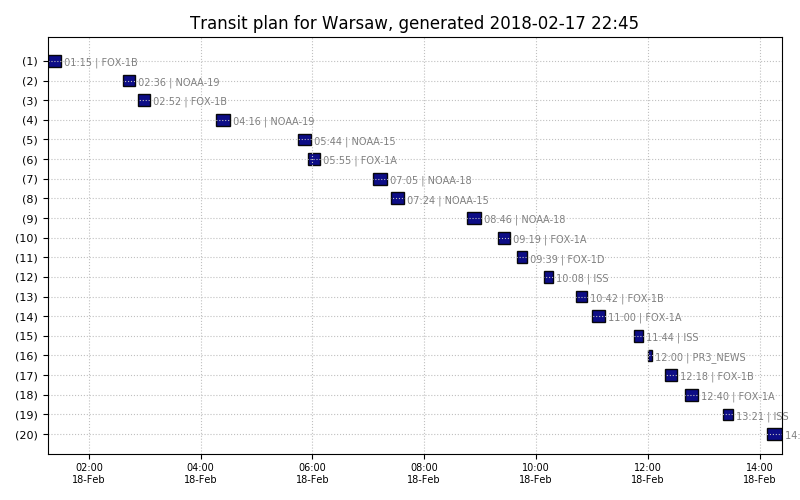
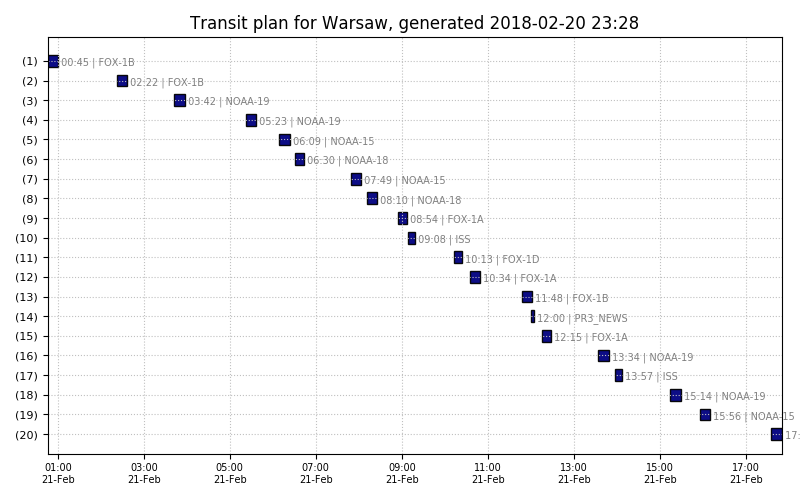
requirements fix

diff --git a/var/nextpass.html b/var/nextpass.html
@@ -1,103 +1,103 @@
 <table>
 <tr><td>#</td><td>satellite</td><td>start</td><td>duration</td><td>peak</td><td>azimuth</td><td>freq</td><td>process with</td><tr>
-<tr><td>1</td><td>FOX-1B</td><td>2018-02-18 01:15</td><td>14:44</td><td>87°</td><td>104° (E→)</td><td>145960000Hz</td><td>modules/iss/iss_voice.sh</td><tr>
-<tr><td>2</td><td>NOAA-19</td><td>2018-02-18 02:36</td><td>13:42</td><td>22°</td><td>90° (E→)</td><td>137100000Hz</td><td>modules/noaa/noaa.sh</td><tr>
-<tr><td>3</td><td>FOX-1B</td><td>2018-02-18 02:52</td><td>12:50</td><td>21°</td><td>304° (WNW←↖)</td><td>145960000Hz</td><td>modules/iss/iss_voice.sh</td><tr>
-<tr><td>4</td><td>NOAA-19</td><td>2018-02-18 04:16</td><td>15:10</td><td>73°</td><td>290° (W←)</td><td>137100000Hz</td><td>modules/noaa/noaa.sh</td><tr>
-<tr><td>5</td><td>NOAA-15</td><td>2018-02-18 05:44</td><td>13:55</td><td>32°</td><td>94° (E→)</td><td>137620000Hz</td><td>modules/noaa/noaa.sh</td><tr>
-<tr><td>6</td><td>FOX-1A</td><td>2018-02-18 05:55</td><td>12:37</td><td>39°</td><td>325° (NW↖)</td><td>145980000Hz</td><td>modules/iss/iss_voice.sh</td><tr>
-<tr><td>7</td><td>NOAA-18</td><td>2018-02-18 07:05</td><td>14:45</td><td>41°</td><td>98° (E→)</td><td>137912500Hz</td><td>modules/noaa/noaa.sh</td><tr>
-<tr><td>8</td><td>NOAA-15</td><td>2018-02-18 07:24</td><td>14:07</td><td>46°</td><td>294° (WNW←↖)</td><td>137620000Hz</td><td>modules/noaa/noaa.sh</td><tr>
-<tr><td>9</td><td>NOAA-18</td><td>2018-02-18 08:46</td><td>14:21</td><td>39°</td><td>298° (WNW←↖)</td><td>137912500Hz</td><td>modules/noaa/noaa.sh</td><tr>
-<tr><td>10</td><td>FOX-1A</td><td>2018-02-18 09:19</td><td>12:24</td><td>20°</td><td>14° (N↑)</td><td>145980000Hz</td><td>modules/iss/iss_voice.sh</td><tr>
-<tr><td>11</td><td>FOX-1D</td><td>2018-02-18 09:39</td><td>10:48</td><td>83°</td><td>103° (E→)</td><td>145880000Hz</td><td>modules/iss/iss_voice.sh</td><tr>
-<tr><td>12</td><td>ISS</td><td>2018-02-18 10:08</td><td>09:39</td><td>32°</td><td>153° (SE↘)</td><td>145800000Hz</td><td>modules/iss/iss_voice.sh</td><tr>
-<tr><td>13</td><td>FOX-1B</td><td>2018-02-18 10:42</td><td>12:18</td><td>24°</td><td>57° (NE↗)</td><td>145960000Hz</td><td>modules/iss/iss_voice.sh</td><tr>
-<tr><td>14</td><td>FOX-1A</td><td>2018-02-18 11:00</td><td>13:53</td><td>46°</td><td>37° (NNE↑↗)</td><td>145980000Hz</td><td>modules/iss/iss_voice.sh</td><tr>
-<tr><td>15</td><td>ISS</td><td>2018-02-18 11:44</td><td>10:02</td><td>75°</td><td>172° (SSE↓↘)</td><td>145800000Hz</td><td>modules/iss/iss_voice.sh</td><tr>
-<tr><td>16</td><td>PR3_NEWS</td><td>2018-02-18 12:00</td><td>05:00</td><td>0°</td><td>0° (N↑)</td><td>98796500Hz</td><td>modules/fm/fm.sh</td><tr>
-<tr><td>17</td><td>FOX-1B</td><td>2018-02-18 12:18</td><td>13:31</td><td>62°</td><td>259° (WSW←↙)</td><td>145960000Hz</td><td>modules/iss/iss_voice.sh</td><tr>
-<tr><td>18</td><td>FOX-1A</td><td>2018-02-18 12:40</td><td>13:55</td><td>44°</td><td>236° (SW↙)</td><td>145980000Hz</td><td>modules/iss/iss_voice.sh</td><tr>
-<tr><td>19</td><td>ISS</td><td>2018-02-18 13:21</td><td>10:00</td><td>65°</td><td>192° (S↓)</td><td>145800000Hz</td><td>modules/iss/iss_voice.sh</td><tr>
-<tr><td>20</td><td>NOAA-19</td><td>2018-02-18 14:08</td><td>15:03</td><td>67°</td><td>68° (ENE→↗)</td><td>137100000Hz</td><td>modules/noaa/noaa.sh</td><tr>
-<tr><td>21</td><td>ISS</td><td>2018-02-18 14:57</td><td>09:17</td><td>23°</td><td>211° (SSW↓↙)</td><td>145800000Hz</td><td>modules/iss/iss_voice.sh</td><tr>
-<tr><td>22</td><td>NOAA-19</td><td>2018-02-18 15:50</td><td>13:50</td><td>24°</td><td>268° (WSW←↙)</td><td>137100000Hz</td><td>modules/noaa/noaa.sh</td><tr>
-<tr><td>23</td><td>NOAA-18</td><td>2018-02-18 16:58</td><td>13:41</td><td>27°</td><td>56° (NE↗)</td><td>137912500Hz</td><td>modules/noaa/noaa.sh</td><tr>
-<tr><td>24</td><td>NOAA-15</td><td>2018-02-18 17:10</td><td>14:44</td><td>87°</td><td>72° (ENE→↗)</td><td>137620000Hz</td><td>modules/noaa/noaa.sh</td><tr>
-<tr><td>25</td><td>NOAA-18</td><td>2018-02-18 18:37</td><td>14:59</td><td>64°</td><td>256° (WSW←↙)</td><td>137912500Hz</td><td>modules/noaa/noaa.sh</td><tr>
-<tr><td>26</td><td>FOX-1D</td><td>2018-02-18 20:22</td><td>10:51</td><td>86°</td><td>75° (ENE→↗)</td><td>145880000Hz</td><td>modules/iss/iss_voice.sh</td><tr>
-<tr><td>27</td><td>FOX-1B</td><td>2018-02-19 00:01</td><td>13:39</td><td>24°</td><td>89° (ENE→↗)</td><td>145960000Hz</td><td>modules/iss/iss_voice.sh</td><tr>
-<tr><td>28</td><td>FOX-1B</td><td>2018-02-19 01:37</td><td>14:36</td><td>64°</td><td>289° (W←)</td><td>145960000Hz</td><td>modules/iss/iss_voice.sh</td><tr>
-<tr><td>29</td><td>NOAA-19</td><td>2018-02-19 04:05</td><td>15:14</td><td>87°</td><td>288° (W←)</td><td>137100000Hz</td><td>modules/noaa/noaa.sh</td><tr>
-<tr><td>30</td><td>FOX-1A</td><td>2018-02-19 04:40</td><td>12:34</td><td>88°</td><td>131° (ESE→↘)</td><td>145980000Hz</td><td>modules/iss/iss_voice.sh</td><tr>
-<tr><td>31</td><td>NOAA-15</td><td>2018-02-19 05:19</td><td>13:06</td><td>21°</td><td>89° (ENE→↗)</td><td>137620000Hz</td><td>modules/noaa/noaa.sh</td><tr>
-<tr><td>32</td><td>NOAA-19</td><td>2018-02-19 05:46</td><td>13:07</td><td>20°</td><td>308° (WNW←↖)</td><td>137100000Hz</td><td>modules/noaa/noaa.sh</td><tr>
-<tr><td>33</td><td>FOX-1A</td><td>2018-02-19 06:21</td><td>12:13</td><td>26°</td><td>335° (NW↖)</td><td>145980000Hz</td><td>modules/iss/iss_voice.sh</td><tr>
-<tr><td>34</td><td>NOAA-18</td><td>2018-02-19 06:53</td><td>14:23</td><td>34°</td><td>95° (E→)</td><td>137912500Hz</td><td>modules/noaa/noaa.sh</td><tr>
-<tr><td>35</td><td>NOAA-15</td><td>2018-02-19 06:59</td><td>14:31</td><td>70°</td><td>289° (W←)</td><td>137620000Hz</td><td>modules/noaa/noaa.sh</td><tr>
-<tr><td>36</td><td>NOAA-18</td><td>2018-02-19 08:34</td><td>14:35</td><td>46°</td><td>295° (WNW←↖)</td><td>137912500Hz</td><td>modules/noaa/noaa.sh</td><tr>
-<tr><td>37</td><td>FOX-1D</td><td>2018-02-19 09:19</td><td>10:39</td><td>48°</td><td>99° (E→)</td><td>145880000Hz</td><td>modules/iss/iss_voice.sh</td><tr>
-<tr><td>38</td><td>FOX-1A</td><td>2018-02-19 09:44</td><td>13:02</td><td>26°</td><td>24° (NNE↑↗)</td><td>145980000Hz</td><td>modules/iss/iss_voice.sh</td><tr>
-<tr><td>39</td><td>ISS</td><td>2018-02-19 10:52</td><td>09:59</td><td>64°</td><td>166° (SSE↓↘)</td><td>145800000Hz</td><td>modules/iss/iss_voice.sh</td><tr>
-<tr><td>40</td><td>FOX-1B</td><td>2018-02-19 11:04</td><td>12:59</td><td>34°</td><td>62° (NE↗)</td><td>145960000Hz</td><td>modules/iss/iss_voice.sh</td><tr>
-<tr><td>41</td><td>FOX-1A</td><td>2018-02-19 11:25</td><td>14:13</td><td>77°</td><td>45° (NE↗)</td><td>145980000Hz</td><td>modules/iss/iss_voice.sh</td><tr>
-<tr><td>42</td><td>PR3_NEWS</td><td>2018-02-19 12:00</td><td>05:00</td><td>0°</td><td>0° (N↑)</td><td>98796500Hz</td><td>modules/fm/fm.sh</td><tr>
-<tr><td>43</td><td>ISS</td><td>2018-02-19 12:29</td><td>10:02</td><td>76°</td><td>186° (S↓)</td><td>145800000Hz</td><td>modules/iss/iss_voice.sh</td><tr>
-<tr><td>44</td><td>FOX-1B</td><td>2018-02-19 12:40</td><td>13:15</td><td>40°</td><td>264° (WSW←↙)</td><td>145960000Hz</td><td>modules/iss/iss_voice.sh</td><tr>
-<tr><td>45</td><td>FOX-1A</td><td>2018-02-19 13:05</td><td>12:59</td><td>24°</td><td>244° (SW↙)</td><td>145980000Hz</td><td>modules/iss/iss_voice.sh</td><tr>
-<tr><td>46</td><td>NOAA-19</td><td>2018-02-19 13:57</td><td>14:55</td><td>55°</td><td>66° (NE↗)</td><td>137100000Hz</td><td>modules/noaa/noaa.sh</td><tr>
-<tr><td>47</td><td>NOAA-19</td><td>2018-02-19 15:38</td><td>14:15</td><td>29°</td><td>266° (WSW←↙)</td><td>137100000Hz</td><td>modules/noaa/noaa.sh</td><tr>
-<tr><td>48</td><td>NOAA-15</td><td>2018-02-19 16:45</td><td>14:28</td><td>58°</td><td>67° (NE↗)</td><td>137620000Hz</td><td>modules/noaa/noaa.sh</td><tr>
-<tr><td>49</td><td>NOAA-18</td><td>2018-02-19 16:46</td><td>13:18</td><td>23°</td><td>54° (NE↗)</td><td>137912500Hz</td><td>modules/noaa/noaa.sh</td><tr>
-<tr><td>50</td><td>NOAA-18</td><td>2018-02-19 18:26</td><td>15:02</td><td>78°</td><td>254° (WSW←↙)</td><td>137912500Hz</td><td>modules/noaa/noaa.sh</td><tr>
-<tr><td>51</td><td>NOAA-15</td><td>2018-02-19 18:26</td><td>13:37</td><td>26°</td><td>267° (WSW←↙)</td><td>137620000Hz</td><td>modules/noaa/noaa.sh</td><tr>
-<tr><td>52</td><td>FOX-1D</td><td>2018-02-19 20:02</td><td>10:42</td><td>51°</td><td>71° (ENE→↗)</td><td>145880000Hz</td><td>modules/iss/iss_voice.sh</td><tr>
-<tr><td>53</td><td>FOX-1B</td><td>2018-02-20 00:23</td><td>14:09</td><td>36°</td><td>94° (E→)</td><td>145960000Hz</td><td>modules/iss/iss_voice.sh</td><tr>
-<tr><td>54</td><td>FOX-1B</td><td>2018-02-20 02:00</td><td>14:16</td><td>44°</td><td>293° (WNW←↖)</td><td>145960000Hz</td><td>modules/iss/iss_voice.sh</td><tr>
-<tr><td>55</td><td>FOX-1A</td><td>2018-02-20 03:25</td><td>11:44</td><td>30°</td><td>118° (ESE→↘)</td><td>145980000Hz</td><td>modules/iss/iss_voice.sh</td><tr>
-<tr><td>56</td><td>NOAA-19</td><td>2018-02-20 03:53</td><td>15:14</td><td>77°</td><td>105° (E→)</td><td>137100000Hz</td><td>modules/noaa/noaa.sh</td><tr>
-<tr><td>57</td><td>FOX-1A</td><td>2018-02-20 05:05</td><td>12:36</td><td>49°</td><td>321° (NW↖)</td><td>145980000Hz</td><td>modules/iss/iss_voice.sh</td><tr>
-<tr><td>58</td><td>NOAA-19</td><td>2018-02-20 05:34</td><td>13:33</td><td>23°</td><td>305° (WNW←↖)</td><td>137100000Hz</td><td>modules/noaa/noaa.sh</td><tr>
-<tr><td>59</td><td>NOAA-15</td><td>2018-02-20 06:34</td><td>14:35</td><td>77°</td><td>104° (E→)</td><td>137620000Hz</td><td>modules/noaa/noaa.sh</td><tr>
-<tr><td>60</td><td>NOAA-18</td><td>2018-02-20 06:42</td><td>14:03</td><td>28°</td><td>93° (E→)</td><td>137912500Hz</td><td>modules/noaa/noaa.sh</td><tr>
-<tr><td>61</td><td>NOAA-15</td><td>2018-02-20 08:14</td><td>12:53</td><td>22°</td><td>305° (WNW←↖)</td><td>137620000Hz</td><td>modules/noaa/noaa.sh</td><tr>
-<tr><td>62</td><td>NOAA-18</td><td>2018-02-20 08:22</td><td>14:47</td><td>56°</td><td>293° (WNW←↖)</td><td>137912500Hz</td><td>modules/noaa/noaa.sh</td><tr>
-<tr><td>63</td><td>FOX-1D</td><td>2018-02-20 08:59</td><td>10:19</td><td>29°</td><td>95° (E→)</td><td>145880000Hz</td><td>modules/iss/iss_voice.sh</td><tr>
-<tr><td>64</td><td>ISS</td><td>2018-02-20 10:00</td><td>09:54</td><td>50°</td><td>161° (SSE↓↘)</td><td>145800000Hz</td><td>modules/iss/iss_voice.sh</td><tr>
-<tr><td>65</td><td>FOX-1A</td><td>2018-02-20 10:09</td><td>13:38</td><td>38°</td><td>33° (NNE↑↗)</td><td>145980000Hz</td><td>modules/iss/iss_voice.sh</td><tr>
-<tr><td>66</td><td>FOX-1D</td><td>2018-02-20 10:33</td><td>10:05</td><td>27°</td><td>294° (WNW←↖)</td><td>145880000Hz</td><td>modules/iss/iss_voice.sh</td><tr>
-<tr><td>67</td><td>FOX-1B</td><td>2018-02-20 11:26</td><td>13:29</td><td>50°</td><td>67° (NE↗)</td><td>145960000Hz</td><td>modules/iss/iss_voice.sh</td><tr>
-<tr><td>68</td><td>ISS</td><td>2018-02-20 11:36</td><td>10:07</td><td>80°</td><td>180° (S↓)</td><td>145800000Hz</td><td>modules/iss/iss_voice.sh</td><tr>
-<tr><td>69</td><td>FOX-1A</td><td>2018-02-20 11:50</td><td>14:09</td><td>59°</td><td>233° (SW↙)</td><td>145980000Hz</td><td>modules/iss/iss_voice.sh</td><tr>
-<tr><td>70</td><td>FOX-1B</td><td>2018-02-20 13:03</td><td>12:43</td><td>27°</td><td>269° (WSW←↙)</td><td>145960000Hz</td><td>modules/iss/iss_voice.sh</td><tr>
-<tr><td>71</td><td>ISS</td><td>2018-02-20 13:13</td><td>09:52</td><td>45°</td><td>200° (S↓)</td><td>145800000Hz</td><td>modules/iss/iss_voice.sh</td><tr>
-<tr><td>72</td><td>NOAA-19</td><td>2018-02-20 13:45</td><td>14:44</td><td>46°</td><td>64° (NE↗)</td><td>137100000Hz</td><td>modules/noaa/noaa.sh</td><tr>
-<tr><td>73</td><td>NOAA-19</td><td>2018-02-20 15:26</td><td>14:34</td><td>35°</td><td>264° (WSW←↙)</td><td>137100000Hz</td><td>modules/noaa/noaa.sh</td><tr>
-<tr><td>74</td><td>NOAA-15</td><td>2018-02-20 16:20</td><td>14:02</td><td>39°</td><td>62° (NE↗)</td><td>137620000Hz</td><td>modules/noaa/noaa.sh</td><tr>
-<tr><td>75</td><td>NOAA-15</td><td>2018-02-20 18:00</td><td>14:16</td><td>40°</td><td>262° (WSW←↙)</td><td>137620000Hz</td><td>modules/noaa/noaa.sh</td><tr>
-<tr><td>76</td><td>NOAA-18</td><td>2018-02-20 18:14</td><td>15:01</td><td>86°</td><td>72° (ENE→↗)</td><td>137912500Hz</td><td>modules/noaa/noaa.sh</td><tr>
-<tr><td>77</td><td>FOX-1D</td><td>2018-02-20 19:43</td><td>10:26</td><td>32°</td><td>67° (NE↗)</td><td>145880000Hz</td><td>modules/iss/iss_voice.sh</td><tr>
-<tr><td>78</td><td>FOX-1D</td><td>2018-02-20 21:16</td><td>10:12</td><td>25°</td><td>265° (WSW←↙)</td><td>145880000Hz</td><td>modules/iss/iss_voice.sh</td><tr>
-<tr><td>79</td><td>FOX-1B</td><td>2018-02-21 00:45</td><td>14:30</td><td>53°</td><td>98° (E→)</td><td>145960000Hz</td><td>modules/iss/iss_voice.sh</td><tr>
-<tr><td>80</td><td>FOX-1B</td><td>2018-02-21 02:22</td><td>13:44</td><td>31°</td><td>298° (WNW←↖)</td><td>145960000Hz</td><td>modules/iss/iss_voice.sh</td><tr>
-<tr><td>81</td><td>NOAA-19</td><td>2018-02-21 03:42</td><td>15:11</td><td>64°</td><td>103° (E→)</td><td>137100000Hz</td><td>modules/noaa/noaa.sh</td><tr>
-<tr><td>82</td><td>NOAA-19</td><td>2018-02-21 05:23</td><td>13:59</td><td>27°</td><td>303° (WNW←↖)</td><td>137100000Hz</td><td>modules/noaa/noaa.sh</td><tr>
-<tr><td>83</td><td>NOAA-15</td><td>2018-02-21 06:09</td><td>14:24</td><td>49°</td><td>99° (E→)</td><td>137620000Hz</td><td>modules/noaa/noaa.sh</td><tr>
-<tr><td>84</td><td>NOAA-18</td><td>2018-02-21 06:30</td><td>13:39</td><td>23°</td><td>91° (E→)</td><td>137912500Hz</td><td>modules/noaa/noaa.sh</td><tr>
-<tr><td>85</td><td>NOAA-15</td><td>2018-02-21 07:49</td><td>13:38</td><td>31°</td><td>299° (WNW←↖)</td><td>137620000Hz</td><td>modules/noaa/noaa.sh</td><tr>
-<tr><td>86</td><td>NOAA-18</td><td>2018-02-21 08:10</td><td>14:55</td><td>68°</td><td>291° (W←)</td><td>137912500Hz</td><td>modules/noaa/noaa.sh</td><tr>
-<tr><td>87</td><td>FOX-1A</td><td>2018-02-21 08:54</td><td>12:46</td><td>23°</td><td>20° (N↑)</td><td>145980000Hz</td><td>modules/iss/iss_voice.sh</td><tr>
-<tr><td>88</td><td>ISS</td><td>2018-02-21 09:08</td><td>09:44</td><td>36°</td><td>155° (SE↘)</td><td>145800000Hz</td><td>modules/iss/iss_voice.sh</td><tr>
-<tr><td>89</td><td>FOX-1D</td><td>2018-02-21 10:13</td><td>10:30</td><td>42°</td><td>290° (W←)</td><td>145880000Hz</td><td>modules/iss/iss_voice.sh</td><tr>
-<tr><td>90</td><td>FOX-1A</td><td>2018-02-21 10:34</td><td>14:08</td><td>61°</td><td>41° (NNE↑↗)</td><td>145980000Hz</td><td>modules/iss/iss_voice.sh</td><tr>
-<tr><td>91</td><td>FOX-1B</td><td>2018-02-21 11:48</td><td>13:47</td><td>76°</td><td>72° (ENE→↗)</td><td>145960000Hz</td><td>modules/iss/iss_voice.sh</td><tr>
-<tr><td>92</td><td>PR3_NEWS</td><td>2018-02-21 12:00</td><td>05:00</td><td>0°</td><td>0° (N↑)</td><td>98796500Hz</td><td>modules/fm/fm.sh</td><tr>
-<tr><td>93</td><td>FOX-1A</td><td>2018-02-21 12:15</td><td>13:30</td><td>31°</td><td>240° (SW↙)</td><td>145980000Hz</td><td>modules/iss/iss_voice.sh</td><tr>
-<tr><td>94</td><td>NOAA-19</td><td>2018-02-21 13:34</td><td>14:31</td><td>39°</td><td>61° (NE↗)</td><td>137100000Hz</td><td>modules/noaa/noaa.sh</td><tr>
-<tr><td>95</td><td>ISS</td><td>2018-02-21 13:57</td><td>09:06</td><td>20°</td><td>213° (SSW↓↙)</td><td>145800000Hz</td><td>modules/iss/iss_voice.sh</td><tr>
-<tr><td>96</td><td>NOAA-19</td><td>2018-02-21 15:14</td><td>14:47</td><td>42°</td><td>261° (WSW←↙)</td><td>137100000Hz</td><td>modules/noaa/noaa.sh</td><tr>
-<tr><td>97</td><td>NOAA-15</td><td>2018-02-21 15:56</td><td>13:24</td><td>27°</td><td>57° (NE↗)</td><td>137620000Hz</td><td>modules/noaa/noaa.sh</td><tr>
-<tr><td>98</td><td>NOAA-15</td><td>2018-02-21 17:35</td><td>14:29</td><td>61°</td><td>257° (WSW←↙)</td><td>137620000Hz</td><td>modules/noaa/noaa.sh</td><tr>
-<tr><td>99</td><td>NOAA-18</td><td>2018-02-21 18:02</td><td>14:55</td><td>72°</td><td>69° (ENE→↗)</td><td>137912500Hz</td><td>modules/noaa/noaa.sh</td><tr>
-<tr><td>100</td><td>FOX-1D</td><td>2018-02-21 19:23</td><td>09:48</td><td>21°</td><td>62° (NE↗)</td><td>145880000Hz</td><td>modules/iss/iss_voice.sh</td><tr>
+<tr><td>1</td><td>FOX-1B</td><td>2018-02-21 00:45</td><td>14:30</td><td>53°</td><td>98° (E→)</td><td>145960000Hz</td><td>modules/iss/iss_voice.sh</td><tr>
+<tr><td>2</td><td>FOX-1B</td><td>2018-02-21 02:22</td><td>13:44</td><td>31°</td><td>298° (WNW←↖)</td><td>145960000Hz</td><td>modules/iss/iss_voice.sh</td><tr>
+<tr><td>3</td><td>NOAA-19</td><td>2018-02-21 03:42</td><td>15:11</td><td>64°</td><td>103° (E→)</td><td>137100000Hz</td><td>modules/noaa/noaa.sh</td><tr>
+<tr><td>4</td><td>NOAA-19</td><td>2018-02-21 05:23</td><td>13:59</td><td>27°</td><td>303° (WNW←↖)</td><td>137100000Hz</td><td>modules/noaa/noaa.sh</td><tr>
+<tr><td>5</td><td>NOAA-15</td><td>2018-02-21 06:09</td><td>14:24</td><td>49°</td><td>99° (E→)</td><td>137620000Hz</td><td>modules/noaa/noaa.sh</td><tr>
+<tr><td>6</td><td>NOAA-18</td><td>2018-02-21 06:30</td><td>13:39</td><td>23°</td><td>91° (E→)</td><td>137912500Hz</td><td>modules/noaa/noaa.sh</td><tr>
+<tr><td>7</td><td>NOAA-15</td><td>2018-02-21 07:49</td><td>13:38</td><td>31°</td><td>299° (WNW←↖)</td><td>137620000Hz</td><td>modules/noaa/noaa.sh</td><tr>
+<tr><td>8</td><td>NOAA-18</td><td>2018-02-21 08:10</td><td>14:55</td><td>68°</td><td>290° (W←)</td><td>137912500Hz</td><td>modules/noaa/noaa.sh</td><tr>
+<tr><td>9</td><td>FOX-1A</td><td>2018-02-21 08:54</td><td>12:46</td><td>23°</td><td>20° (N↑)</td><td>145980000Hz</td><td>modules/iss/iss_voice.sh</td><tr>
+<tr><td>10</td><td>ISS</td><td>2018-02-21 09:08</td><td>09:44</td><td>36°</td><td>155° (SE↘)</td><td>145800000Hz</td><td>modules/iss/iss_voice.sh</td><tr>
+<tr><td>11</td><td>FOX-1D</td><td>2018-02-21 10:13</td><td>10:30</td><td>42°</td><td>290° (W←)</td><td>145880000Hz</td><td>modules/iss/iss_voice.sh</td><tr>
+<tr><td>12</td><td>FOX-1A</td><td>2018-02-21 10:34</td><td>14:08</td><td>61°</td><td>41° (NNE↑↗)</td><td>145980000Hz</td><td>modules/iss/iss_voice.sh</td><tr>
+<tr><td>13</td><td>FOX-1B</td><td>2018-02-21 11:48</td><td>13:47</td><td>76°</td><td>72° (ENE→↗)</td><td>145960000Hz</td><td>modules/iss/iss_voice.sh</td><tr>
+<tr><td>14</td><td>PR3_NEWS</td><td>2018-02-21 12:00</td><td>05:00</td><td>0°</td><td>0° (N↑)</td><td>98796500Hz</td><td>modules/fm/fm.sh</td><tr>
+<tr><td>15</td><td>FOX-1A</td><td>2018-02-21 12:15</td><td>13:31</td><td>31°</td><td>240° (SW↙)</td><td>145980000Hz</td><td>modules/iss/iss_voice.sh</td><tr>
+<tr><td>16</td><td>NOAA-19</td><td>2018-02-21 13:34</td><td>14:31</td><td>39°</td><td>61° (NE↗)</td><td>137100000Hz</td><td>modules/noaa/noaa.sh</td><tr>
+<tr><td>17</td><td>ISS</td><td>2018-02-21 13:57</td><td>09:06</td><td>20°</td><td>213° (SSW↓↙)</td><td>145800000Hz</td><td>modules/iss/iss_voice.sh</td><tr>
+<tr><td>18</td><td>NOAA-19</td><td>2018-02-21 15:14</td><td>14:47</td><td>42°</td><td>261° (WSW←↙)</td><td>137100000Hz</td><td>modules/noaa/noaa.sh</td><tr>
+<tr><td>19</td><td>NOAA-15</td><td>2018-02-21 15:56</td><td>13:24</td><td>27°</td><td>57° (NE↗)</td><td>137620000Hz</td><td>modules/noaa/noaa.sh</td><tr>
+<tr><td>20</td><td>NOAA-15</td><td>2018-02-21 17:35</td><td>14:29</td><td>61°</td><td>257° (WSW←↙)</td><td>137620000Hz</td><td>modules/noaa/noaa.sh</td><tr>
+<tr><td>21</td><td>NOAA-18</td><td>2018-02-21 18:02</td><td>14:55</td><td>72°</td><td>69° (ENE→↗)</td><td>137912500Hz</td><td>modules/noaa/noaa.sh</td><tr>
+<tr><td>22</td><td>FOX-1D</td><td>2018-02-21 19:23</td><td>09:48</td><td>21°</td><td>62° (NE↗)</td><td>145880000Hz</td><td>modules/iss/iss_voice.sh</td><tr>
+<tr><td>23</td><td>NOAA-18</td><td>2018-02-21 19:44</td><td>13:29</td><td>21°</td><td>269° (WSW←↙)</td><td>137912500Hz</td><td>modules/noaa/noaa.sh</td><tr>
+<tr><td>24</td><td>FOX-1D</td><td>2018-02-21 20:56</td><td>10:38</td><td>40°</td><td>261° (WSW←↙)</td><td>145880000Hz</td><td>modules/iss/iss_voice.sh</td><tr>
+<tr><td>25</td><td>FOX-1B</td><td>2018-02-22 01:08</td><td>14:37</td><td>78°</td><td>103° (E→)</td><td>145960000Hz</td><td>modules/iss/iss_voice.sh</td><tr>
+<tr><td>26</td><td>FOX-1A</td><td>2018-02-22 02:35</td><td>11:12</td><td>22°</td><td>114° (ESE→↘)</td><td>145980000Hz</td><td>modules/iss/iss_voice.sh</td><tr>
+<tr><td>27</td><td>FOX-1B</td><td>2018-02-22 02:44</td><td>13:01</td><td>23°</td><td>303° (WNW←↖)</td><td>145960000Hz</td><td>modules/iss/iss_voice.sh</td><tr>
+<tr><td>28</td><td>NOAA-19</td><td>2018-02-22 03:30</td><td>15:04</td><td>53°</td><td>100° (E→)</td><td>137100000Hz</td><td>modules/noaa/noaa.sh</td><tr>
+<tr><td>29</td><td>FOX-1A</td><td>2018-02-22 04:14</td><td>12:39</td><td>65°</td><td>317° (NW↖)</td><td>145980000Hz</td><td>modules/iss/iss_voice.sh</td><tr>
+<tr><td>30</td><td>NOAA-19</td><td>2018-02-22 05:11</td><td>14:15</td><td>32°</td><td>300° (WNW←↖)</td><td>137100000Hz</td><td>modules/noaa/noaa.sh</td><tr>
+<tr><td>31</td><td>NOAA-15</td><td>2018-02-22 05:44</td><td>13:54</td><td>32°</td><td>94° (E→)</td><td>137620000Hz</td><td>modules/noaa/noaa.sh</td><tr>
+<tr><td>32</td><td>FOX-1A</td><td>2018-02-22 05:56</td><td>12:03</td><td>22°</td><td>341° (NNW↑↖)</td><td>145980000Hz</td><td>modules/iss/iss_voice.sh</td><tr>
+<tr><td>33</td><td>NOAA-15</td><td>2018-02-22 07:24</td><td>14:06</td><td>46°</td><td>294° (WNW←↖)</td><td>137620000Hz</td><td>modules/noaa/noaa.sh</td><tr>
+<tr><td>34</td><td>NOAA-18</td><td>2018-02-22 07:59</td><td>15:00</td><td>82°</td><td>288° (W←)</td><td>137912500Hz</td><td>modules/noaa/noaa.sh</td><tr>
+<tr><td>35</td><td>ISS</td><td>2018-02-22 08:16</td><td>09:28</td><td>26°</td><td>149° (SE↘)</td><td>145800000Hz</td><td>modules/iss/iss_voice.sh</td><tr>
+<tr><td>36</td><td>FOX-1A</td><td>2018-02-22 09:19</td><td>13:26</td><td>32°</td><td>29° (NNE↑↗)</td><td>145980000Hz</td><td>modules/iss/iss_voice.sh</td><tr>
+<tr><td>37</td><td>FOX-1D</td><td>2018-02-22 09:53</td><td>10:43</td><td>70°</td><td>286° (W←)</td><td>145880000Hz</td><td>modules/iss/iss_voice.sh</td><tr>
+<tr><td>38</td><td>FOX-1B</td><td>2018-02-22 10:34</td><td>12:29</td><td>22°</td><td>56° (NE↗)</td><td>145960000Hz</td><td>modules/iss/iss_voice.sh</td><tr>
+<tr><td>39</td><td>FOX-1A</td><td>2018-02-22 10:59</td><td>14:19</td><td>78°</td><td>229° (SW↙)</td><td>145980000Hz</td><td>modules/iss/iss_voice.sh</td><tr>
+<tr><td>40</td><td>ISS</td><td>2018-02-22 11:28</td><td>10:01</td><td>72°</td><td>189° (S↓)</td><td>145800000Hz</td><td>modules/iss/iss_voice.sh</td><tr>
+<tr><td>41</td><td>PR3_NEWS</td><td>2018-02-22 12:00</td><td>05:00</td><td>0°</td><td>0° (N↑)</td><td>98796500Hz</td><td>modules/fm/fm.sh</td><tr>
+<tr><td>42</td><td>FOX-1B</td><td>2018-02-22 12:10</td><td>13:54</td><td>72°</td><td>257° (WSW←↙)</td><td>145960000Hz</td><td>modules/iss/iss_voice.sh</td><tr>
+<tr><td>43</td><td>ISS</td><td>2018-02-22 13:05</td><td>09:33</td><td>29°</td><td>208° (SSW↓↙)</td><td>145800000Hz</td><td>modules/iss/iss_voice.sh</td><tr>
+<tr><td>44</td><td>NOAA-19</td><td>2018-02-22 13:23</td><td>14:14</td><td>33°</td><td>59° (NE↗)</td><td>137100000Hz</td><td>modules/noaa/noaa.sh</td><tr>
+<tr><td>45</td><td>NOAA-19</td><td>2018-02-22 15:03</td><td>15:00</td><td>51°</td><td>259° (WSW←↙)</td><td>137100000Hz</td><td>modules/noaa/noaa.sh</td><tr>
+<tr><td>46</td><td>NOAA-15</td><td>2018-02-22 17:10</td><td>14:40</td><td>87°</td><td>72° (ENE→↗)</td><td>137620000Hz</td><td>modules/noaa/noaa.sh</td><tr>
+<tr><td>47</td><td>NOAA-18</td><td>2018-02-22 17:51</td><td>14:56</td><td>60°</td><td>67° (NE↗)</td><td>137912500Hz</td><td>modules/noaa/noaa.sh</td><tr>
+<tr><td>48</td><td>NOAA-18</td><td>2018-02-22 19:32</td><td>13:52</td><td>26°</td><td>267° (WSW←↙)</td><td>137912500Hz</td><td>modules/noaa/noaa.sh</td><tr>
+<tr><td>49</td><td>FOX-1D</td><td>2018-02-22 20:36</td><td>10:49</td><td>67°</td><td>257° (WSW←↙)</td><td>145880000Hz</td><td>modules/iss/iss_voice.sh</td><tr>
+<tr><td>50</td><td>FOX-1B</td><td>2018-02-22 23:54</td><td>13:07</td><td>21°</td><td>87° (ENE→↗)</td><td>145960000Hz</td><td>modules/iss/iss_voice.sh</td><tr>
+<tr><td>51</td><td>FOX-1B</td><td>2018-02-23 01:30</td><td>14:33</td><td>72°</td><td>287° (W←)</td><td>145960000Hz</td><td>modules/iss/iss_voice.sh</td><tr>
+<tr><td>52</td><td>FOX-1A</td><td>2018-02-23 02:59</td><td>12:05</td><td>46°</td><td>123° (ESE→↘)</td><td>145980000Hz</td><td>modules/iss/iss_voice.sh</td><tr>
+<tr><td>53</td><td>NOAA-19</td><td>2018-02-23 03:18</td><td>14:46</td><td>43°</td><td>98° (E→)</td><td>137100000Hz</td><td>modules/noaa/noaa.sh</td><tr>
+<tr><td>54</td><td>FOX-1A</td><td>2018-02-23 04:39</td><td>12:32</td><td>37°</td><td>326° (NW↖)</td><td>145980000Hz</td><td>modules/iss/iss_voice.sh</td><tr>
+<tr><td>55</td><td>NOAA-19</td><td>2018-02-23 04:59</td><td>14:32</td><td>38°</td><td>298° (WNW←↖)</td><td>137100000Hz</td><td>modules/noaa/noaa.sh</td><tr>
+<tr><td>56</td><td>NOAA-15</td><td>2018-02-23 05:19</td><td>13:04</td><td>21°</td><td>89° (ENE→↗)</td><td>137620000Hz</td><td>modules/noaa/noaa.sh</td><tr>
+<tr><td>57</td><td>NOAA-15</td><td>2018-02-23 06:59</td><td>14:30</td><td>71°</td><td>289° (W←)</td><td>137620000Hz</td><td>modules/noaa/noaa.sh</td><tr>
+<tr><td>58</td><td>NOAA-18</td><td>2018-02-23 07:47</td><td>15:02</td><td>83°</td><td>106° (E→)</td><td>137912500Hz</td><td>modules/noaa/noaa.sh</td><tr>
+<tr><td>59</td><td>FOX-1A</td><td>2018-02-23 08:03</td><td>12:37</td><td>21°</td><td>15° (N↑)</td><td>145980000Hz</td><td>modules/iss/iss_voice.sh</td><tr>
+<tr><td>60</td><td>ISS</td><td>2018-02-23 09:00</td><td>09:57</td><td>55°</td><td>163° (SSE↓↘)</td><td>145800000Hz</td><td>modules/iss/iss_voice.sh</td><tr>
+<tr><td>61</td><td>NOAA-18</td><td>2018-02-23 09:28</td><td>13:09</td><td>22°</td><td>306° (WNW←↖)</td><td>137912500Hz</td><td>modules/noaa/noaa.sh</td><tr>
+<tr><td>62</td><td>FOX-1A</td><td>2018-02-23 09:44</td><td>13:59</td><td>48°</td><td>38° (NNE↑↗)</td><td>145980000Hz</td><td>modules/iss/iss_voice.sh</td><tr>
+<tr><td>63</td><td>ISS</td><td>2018-02-23 10:36</td><td>10:02</td><td>80°</td><td>182° (S↓)</td><td>145800000Hz</td><td>modules/iss/iss_voice.sh</td><tr>
+<tr><td>64</td><td>FOX-1B</td><td>2018-02-23 10:56</td><td>13:13</td><td>31°</td><td>61° (NE↗)</td><td>145960000Hz</td><td>modules/iss/iss_voice.sh</td><tr>
+<tr><td>65</td><td>FOX-1A</td><td>2018-02-23 11:24</td><td>13:54</td><td>42°</td><td>237° (SW↙)</td><td>145980000Hz</td><td>modules/iss/iss_voice.sh</td><tr>
+<tr><td>66</td><td>PR3_NEWS</td><td>2018-02-23 12:00</td><td>05:00</td><td>0°</td><td>0° (N↑)</td><td>98796500Hz</td><td>modules/fm/fm.sh</td><tr>
+<tr><td>67</td><td>ISS</td><td>2018-02-23 12:13</td><td>09:49</td><td>40°</td><td>202° (S↓)</td><td>145800000Hz</td><td>modules/iss/iss_voice.sh</td><tr>
+<tr><td>68</td><td>FOX-1B</td><td>2018-02-23 12:32</td><td>13:47</td><td>47°</td><td>262° (WSW←↙)</td><td>145960000Hz</td><td>modules/iss/iss_voice.sh</td><tr>
+<tr><td>69</td><td>NOAA-19</td><td>2018-02-23 13:11</td><td>13:56</td><td>28°</td><td>56° (NE↗)</td><td>137100000Hz</td><td>modules/noaa/noaa.sh</td><tr>
+<tr><td>70</td><td>NOAA-19</td><td>2018-02-23 14:51</td><td>15:08</td><td>63°</td><td>257° (WSW←↙)</td><td>137100000Hz</td><td>modules/noaa/noaa.sh</td><tr>
+<tr><td>71</td><td>NOAA-15</td><td>2018-02-23 16:45</td><td>14:27</td><td>58°</td><td>67° (NE↗)</td><td>137620000Hz</td><td>modules/noaa/noaa.sh</td><tr>
+<tr><td>72</td><td>NOAA-18</td><td>2018-02-23 17:39</td><td>14:39</td><td>49°</td><td>65° (NE↗)</td><td>137912500Hz</td><td>modules/noaa/noaa.sh</td><tr>
+<tr><td>73</td><td>NOAA-15</td><td>2018-02-23 18:25</td><td>13:36</td><td>26°</td><td>267° (WSW←↙)</td><td>137620000Hz</td><td>modules/noaa/noaa.sh</td><tr>
+<tr><td>74</td><td>NOAA-18</td><td>2018-02-23 19:20</td><td>14:17</td><td>32°</td><td>264° (WSW←↙)</td><td>137912500Hz</td><td>modules/noaa/noaa.sh</td><tr>
+<tr><td>75</td><td>FOX-1D</td><td>2018-02-23 20:16</td><td>10:48</td><td>72°</td><td>73° (ENE→↗)</td><td>145880000Hz</td><td>modules/iss/iss_voice.sh</td><tr>
+<tr><td>76</td><td>FOX-1B</td><td>2018-02-24 00:16</td><td>13:47</td><td>31°</td><td>92° (E→)</td><td>145960000Hz</td><td>modules/iss/iss_voice.sh</td><tr>
+<tr><td>77</td><td>FOX-1B</td><td>2018-02-24 01:52</td><td>14:13</td><td>49°</td><td>292° (W←)</td><td>145960000Hz</td><td>modules/iss/iss_voice.sh</td><tr>
+<tr><td>78</td><td>NOAA-19</td><td>2018-02-24 03:07</td><td>14:40</td><td>36°</td><td>96° (E→)</td><td>137100000Hz</td><td>modules/noaa/noaa.sh</td><tr>
+<tr><td>79</td><td>FOX-1A</td><td>2018-02-24 03:24</td><td>12:38</td><td>86°</td><td>312° (WNW←↖)</td><td>145980000Hz</td><td>modules/iss/iss_voice.sh</td><tr>
+<tr><td>80</td><td>NOAA-19</td><td>2018-02-24 04:48</td><td>14:38</td><td>45°</td><td>296° (WNW←↖)</td><td>137100000Hz</td><td>modules/noaa/noaa.sh</td><tr>
+<tr><td>81</td><td>FOX-1A</td><td>2018-02-24 05:05</td><td>12:14</td><td>26°</td><td>336° (NW↖)</td><td>145980000Hz</td><td>modules/iss/iss_voice.sh</td><tr>
+<tr><td>82</td><td>NOAA-15</td><td>2018-02-24 06:34</td><td>14:34</td><td>76°</td><td>104° (E→)</td><td>137620000Hz</td><td>modules/noaa/noaa.sh</td><tr>
+<tr><td>83</td><td>NOAA-18</td><td>2018-02-24 07:35</td><td>15:00</td><td>68°</td><td>104° (E→)</td><td>137912500Hz</td><td>modules/noaa/noaa.sh</td><tr>
+<tr><td>84</td><td>ISS</td><td>2018-02-24 08:08</td><td>09:49</td><td>41°</td><td>157° (SE↘)</td><td>145800000Hz</td><td>modules/iss/iss_voice.sh</td><tr>
+<tr><td>85</td><td>NOAA-15</td><td>2018-02-24 08:14</td><td>12:52</td><td>22°</td><td>304° (WNW←↖)</td><td>137620000Hz</td><td>modules/noaa/noaa.sh</td><tr>
+<tr><td>86</td><td>FOX-1A</td><td>2018-02-24 08:28</td><td>13:09</td><td>27°</td><td>25° (NNE↑↗)</td><td>145980000Hz</td><td>modules/iss/iss_voice.sh</td><tr>
+<tr><td>87</td><td>NOAA-18</td><td>2018-02-24 09:16</td><td>13:34</td><td>25°</td><td>304° (WNW←↖)</td><td>137912500Hz</td><td>modules/noaa/noaa.sh</td><tr>
+<tr><td>88</td><td>ISS</td><td>2018-02-24 09:44</td><td>10:02</td><td>80°</td><td>177° (SSE↓↘)</td><td>145800000Hz</td><td>modules/iss/iss_voice.sh</td><tr>
+<tr><td>89</td><td>FOX-1A</td><td>2018-02-24 10:09</td><td>14:16</td><td>81°</td><td>46° (NE↗)</td><td>145980000Hz</td><td>modules/iss/iss_voice.sh</td><tr>
+<tr><td>90</td><td>FOX-1D</td><td>2018-02-24 10:46</td><td>09:42</td><td>20°</td><td>297° (WNW←↖)</td><td>145880000Hz</td><td>modules/iss/iss_voice.sh</td><tr>
+<tr><td>91</td><td>FOX-1B</td><td>2018-02-24 11:18</td><td>13:43</td><td>45°</td><td>66° (NE↗)</td><td>145960000Hz</td><td>modules/iss/iss_voice.sh</td><tr>
+<tr><td>92</td><td>FOX-1A</td><td>2018-02-24 11:49</td><td>12:52</td><td>22°</td><td>244° (SW↙)</td><td>145980000Hz</td><td>modules/iss/iss_voice.sh</td><tr>
+<tr><td>93</td><td>PR3_NEWS</td><td>2018-02-24 12:00</td><td>05:00</td><td>0°</td><td>0° (N↑)</td><td>98796500Hz</td><td>modules/fm/fm.sh</td><tr>
+<tr><td>94</td><td>NOAA-19</td><td>2018-02-24 13:00</td><td>13:34</td><td>24°</td><td>54° (NE↗)</td><td>137100000Hz</td><td>modules/noaa/noaa.sh</td><tr>
+<tr><td>95</td><td>NOAA-19</td><td>2018-02-24 14:39</td><td>15:11</td><td>76°</td><td>254° (WSW←↙)</td><td>137100000Hz</td><td>modules/noaa/noaa.sh</td><tr>
+<tr><td>96</td><td>NOAA-15</td><td>2018-02-24 16:20</td><td>14:01</td><td>38°</td><td>62° (NE↗)</td><td>137620000Hz</td><td>modules/noaa/noaa.sh</td><tr>
+<tr><td>97</td><td>NOAA-18</td><td>2018-02-24 17:28</td><td>14:26</td><td>41°</td><td>62° (NE↗)</td><td>137912500Hz</td><td>modules/noaa/noaa.sh</td><tr>
+<tr><td>98</td><td>NOAA-15</td><td>2018-02-24 18:00</td><td>14:16</td><td>40°</td><td>262° (WSW←↙)</td><td>137620000Hz</td><td>modules/noaa/noaa.sh</td><tr>
+<tr><td>99</td><td>NOAA-18</td><td>2018-02-24 19:08</td><td>14:34</td><td>38°</td><td>262° (WSW←↙)</td><td>137912500Hz</td><td>modules/noaa/noaa.sh</td><tr>
+<tr><td>100</td><td>FOX-1D</td><td>2018-02-24 19:56</td><td>10:34</td><td>43°</td><td>69° (ENE→↗)</td><td>145880000Hz</td><td>modules/iss/iss_voice.sh</td><tr>
 </table>
